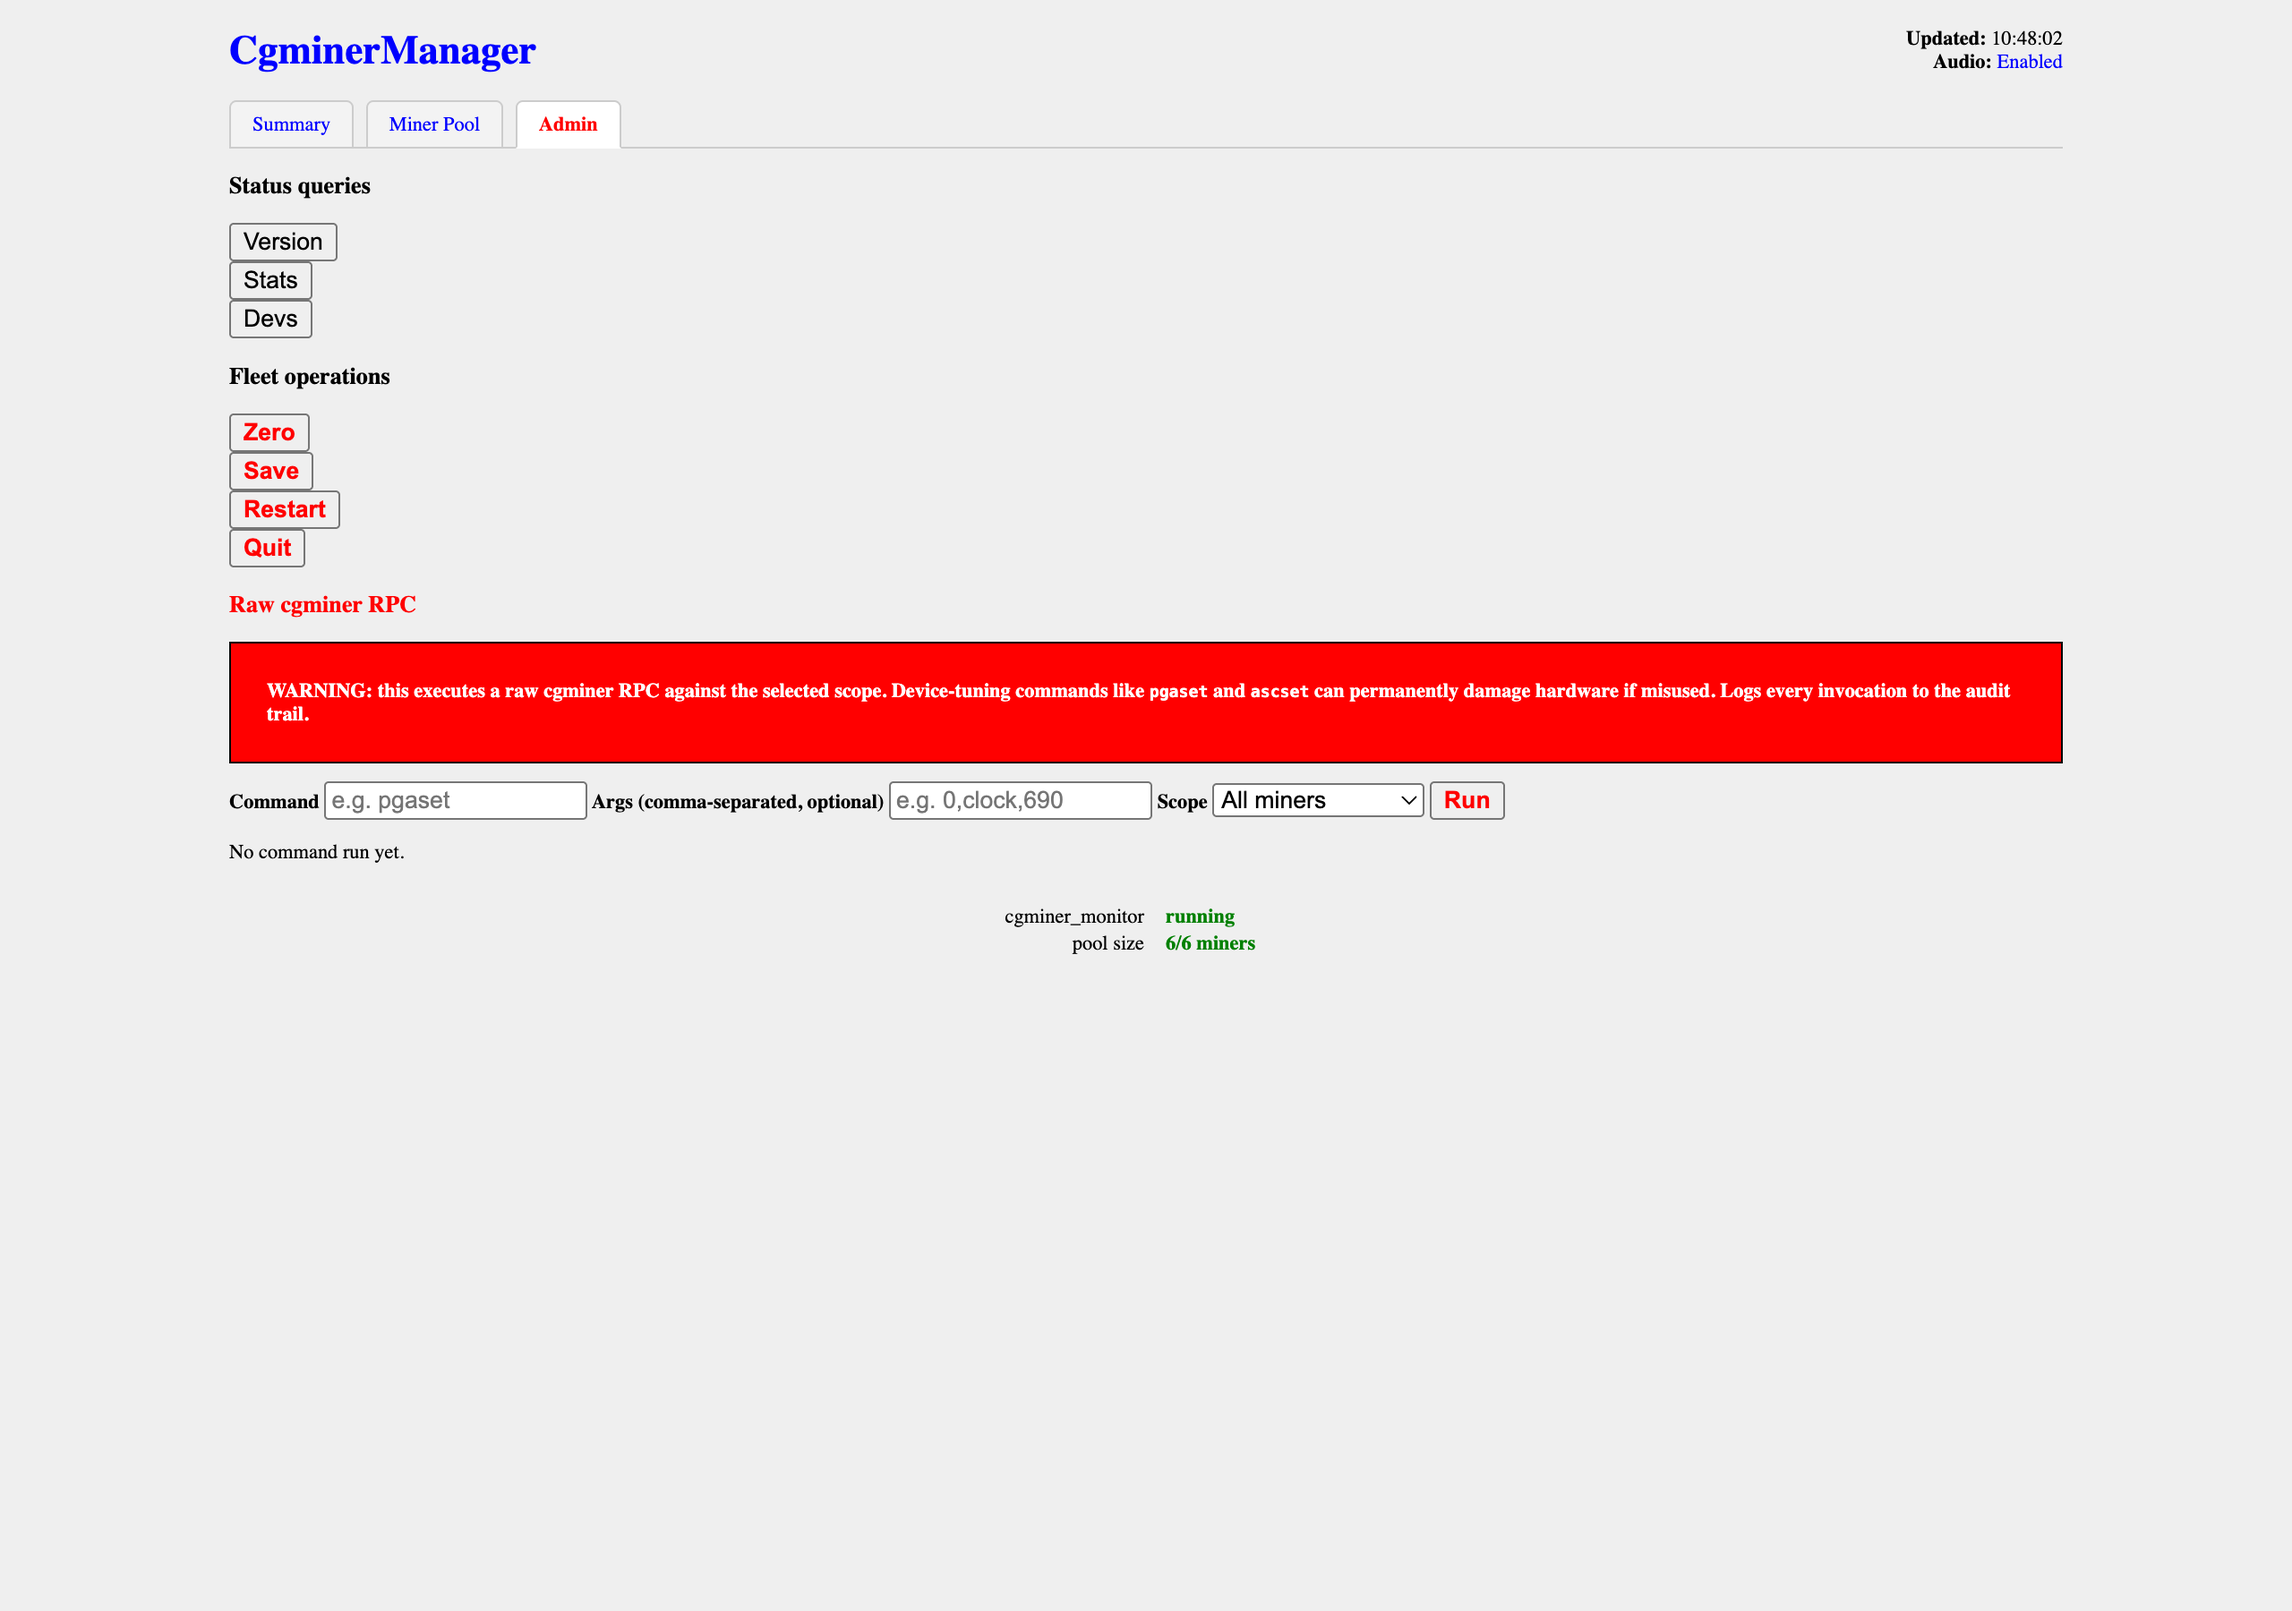
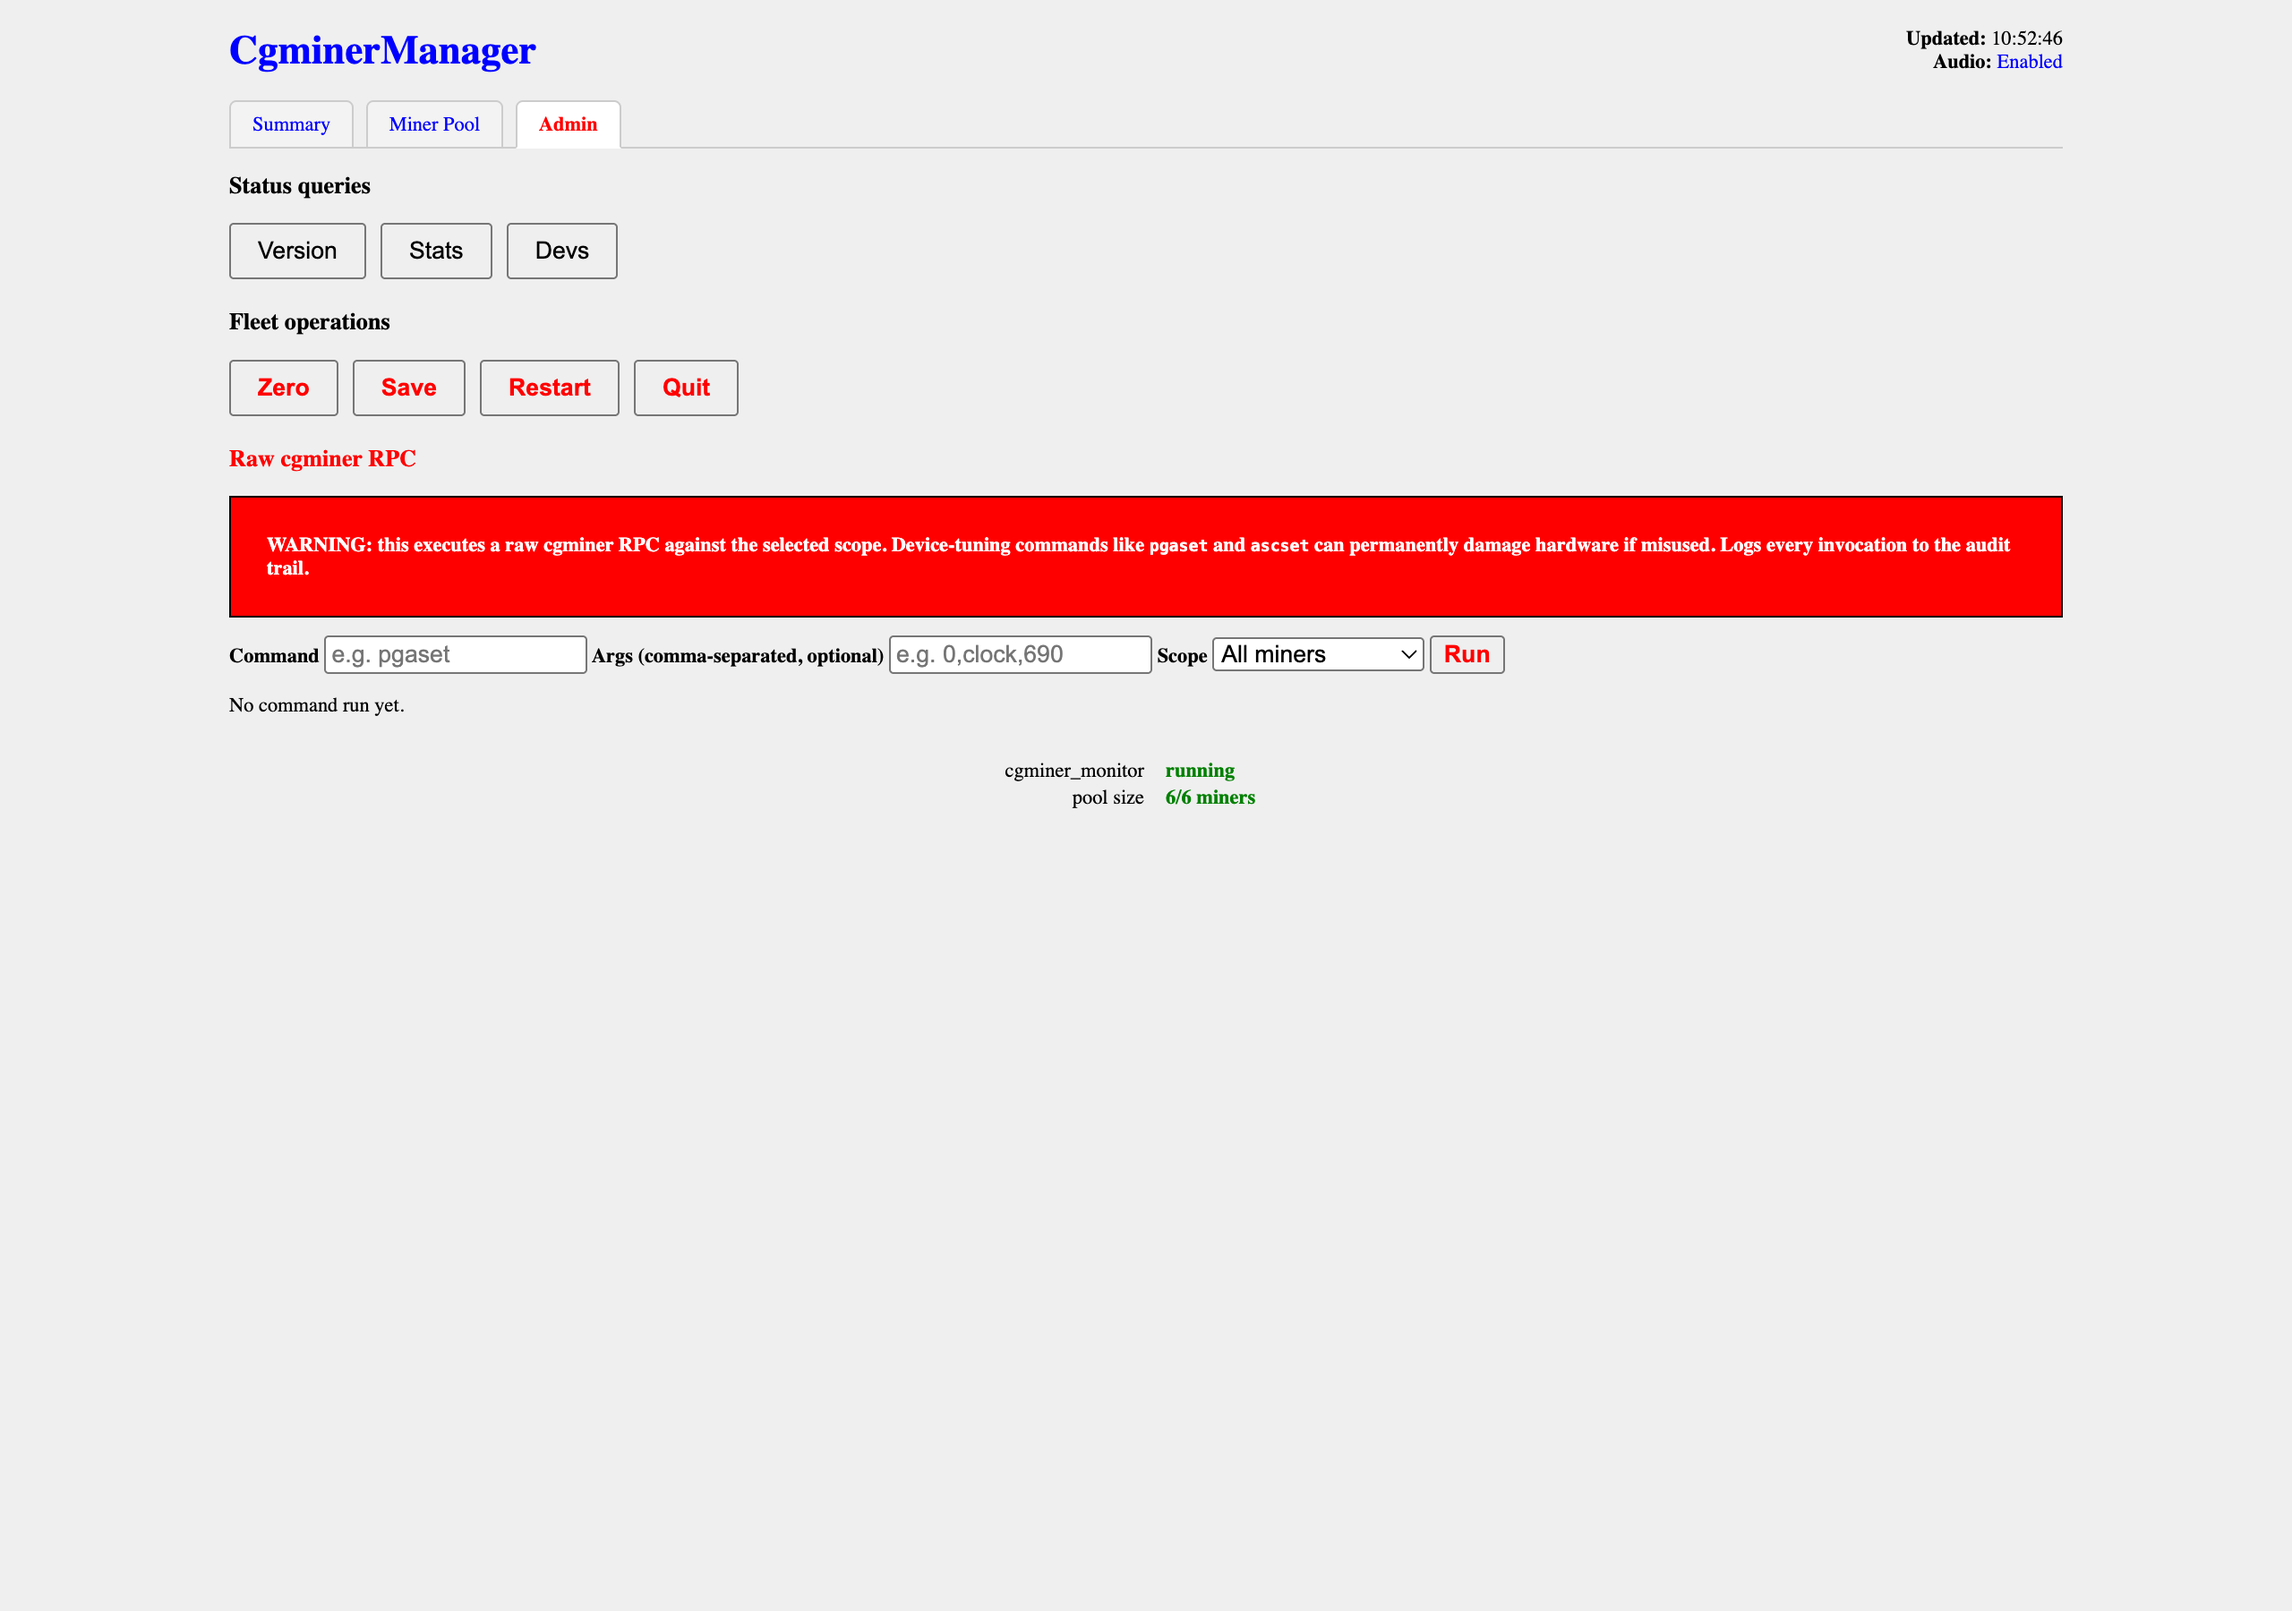
Lay out admin buttons horizontally
The .admin-button-row class on the dashboard Admin tab's Status
queries and Fleet operations groups had no CSS rules, so each
admin-form rendered as its own block and the buttons stacked
vertically. Give the class display: flex with an 8px gap and
zero-margin admin-forms so the buttons line up in a single row
per group with consistent spacing. Slightly widen the button
padding to 6px/14px so the fleet-op button labels don't look
cramped against the border.

Regenerate admin.png.

Changed region(s): [[0.0938, 0.1244, 0.9062, 0.5289], [0.4375, 0.56, 0.5625, 0.5911], [0.2188, 0.2178, 0.3125, 0.2489]]

diff --git a/public/css/manager.css b/public/css/manager.css
@@ -31,3 +31,22 @@
 #manager_results table td:first-child {
   font-weight: bold;
 }
+
+/* Admin tab: lay the action buttons out in a horizontal row with
+ * consistent spacing instead of stacking one form per line. Each
+ * admin-form wraps a single submit button, so flex-ing the row is
+ * enough to put the buttons side-by-side. */
+.admin-button-row {
+  display: flex;
+  flex-wrap: wrap;
+  gap: 8px;
+  margin: 8px 0 16px 0;
+}
+
+.admin-button-row .admin-form {
+  margin: 0;
+}
+
+.admin-button-row .admin-form button {
+  padding: 6px 14px;
+}
